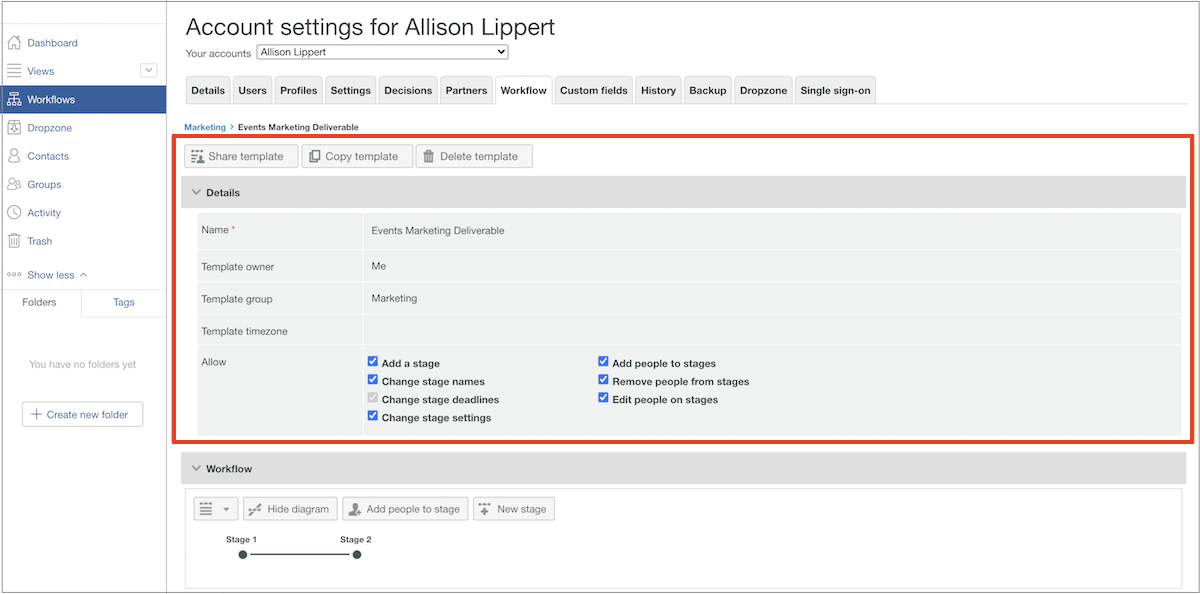
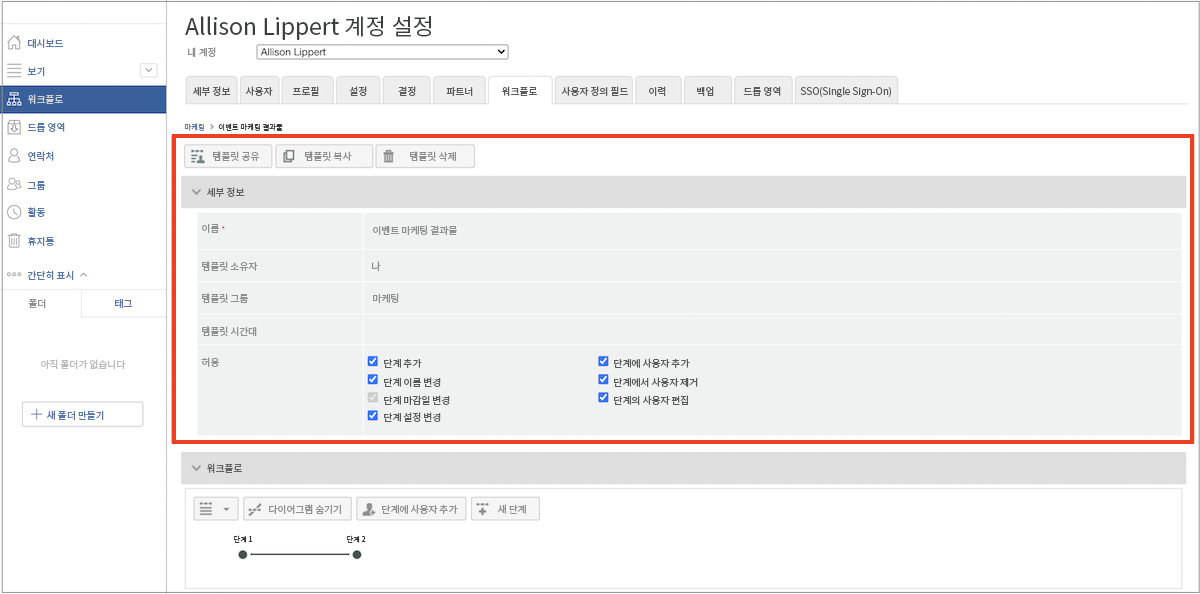
Updated by task 'AUTO_HANDOFF_1723205039258'  Changes for core/source commit https://git.corp.adobe.com/AdobeDocs/workfront-learn.en/commit/f2256fcc19d64247c79126c39acc202b4aff6f96

diff --git a/help/workfront-proof/administration-and-setup/edit-an-automated-workflow-template.md b/help/workfront-proof/administration-and-setup/edit-an-automated-workflow-template.md
@@ -13,9 +13,9 @@ jira: KT-8831
 exl-id: 03841b1f-741d-4427-ae84-ddb9f890fc95
 doc-type: video
 source-git-commit: 55edb8b797583f93f405c9c6b69422b818c90cdc
-workflow-type: tm+mt
+workflow-type: ht
 source-wordcount: '572'
-ht-degree: 61%
+ht-degree: 100%
 
 ---
 
@@ -23,18 +23,18 @@ ht-degree: 61%
 
 증명 검토 및 승인 프로세스가 개편되거나 조직이 변경되면 Workfront를 사용하는 팀의 현재 작업이 반영되도록 자동화된 워크플로 템플릿을 업데이트해야 합니다.
 
-템플릿을 최신 상태로 유지하면 검토 및 승인 프로세스의 일관성이 보장되며, 워크플로우를 지속적으로 수정하지 않아도 되므로 증명을 업로드하는 시간을 절약할 수 있습니다.
+템플릿을 최신 상태로 유지하면 검토 및 승인 프로세스의 일관성이 보장되고, 워크플로를 지속적으로 조정할 필요가 없기 때문에 증명을 업로드하는 시간이 절약됩니다.
 
 1. [!DNL Workfront]의 **[!UICONTROL 메인 메뉴]**&#x200B;에서 **[!UICONTROL 증명]**&#x200B;을 선택합니다.
 1. 왼쪽 패널 메뉴에서 **[!UICONTROL 워크플로]**&#x200B;를 선택합니다.
 1. 템플릿 이름 맨 오른쪽에 있는 점 3개 메뉴를 클릭하고 **[!UICONTROL 템플릿 세부 사항 보기]**&#x200B;를 선택합니다.
 
-템플릿 공유, 복사 및 삭제 옵션은 각 템플릿의 템플릿 세부 사항 창 상단에 있습니다. 템플릿을 삭제해도 해당 템플릿이 적용된 진행 중인 증명에는 영향을 주지 않지만 더 이상 템플릿을 사용할 수 없음을 의미합니다.
+템플릿 공유, 복사 및 삭제 옵션은 각 템플릿의 템플릿 세부 사항 창 상단에 있습니다. 템플릿을 삭제해도 해당 템플릿이 적용된 진행 중인 증명에는 영향이 미치지 않지만 해당 템플릿은 더 이상 사용할 수 없습니다.
 
 ![템플릿 세부 사항 창](assets/proof-system-setup-edit-templates-details-area.png)
 
 
-섹션을 확장하거나 축소하려면 &quot;[!UICONTROL 세부 정보]&quot; 단어의 왼쪽에 있는 화살표를 클릭하십시오.
+섹션을 확장하거나 축소하려면 “[!UICONTROL 세부 사항]” 단어 왼쪽에 있는 화살표를 클릭합니다.
 
 ## 단계 및 수신자 변경
 
@@ -42,18 +42,18 @@ ht-degree: 61%
 
 자동화된 워크플로의 각 단계에는 고유한 섹션이 있어 기한, 개인 정보 보호, 증명 수신자 및 기타 정보를 독립적으로 수정할 수 있습니다.
 
-이 비디오는 [!UICONTROL 워크플로] 영역에서 변경할 수 있는 몇 가지 변경 사항을 보여 줍니다. 이 비디오에서 이러한 설정을 검토하는 글머리 기호 목록을 참조하십시오.
+이 비디오는 [!UICONTROL 워크플로] 영역에서 적용할 수 있는 변경 사항 중 일부를 보여 줍니다. 이 비디오 아래의 글머리 기호 목록을 참조하십시오. 이러한 설정을 검토하는 내용입니다.
 
 >[!VIDEO](https://video.tv.adobe.com/v/335131/?quality=12&learn=on)
 
 다음은 검토 과정에서 [!UICONTROL 워크플로] 섹션에 적용할 수 있는 증명 템플릿 변경 사항입니다.
 
 * 단계 이름 필드 또는 기한 필드를 클릭하여 해당 정보를 업데이트합니다.
-* 최종 기한 왼쪽의 화살표를 클릭하여 단계를 잠그거나 단계가 활성화된 시기를 결정하거나 하나의 결정만 필요합니다.
+* 기한 왼쪽에 있는 화살표를 클릭하여 단계를 잠그거나, 단계가 활성화되는 시기를 결정하거나, 한 번의 결정만 요구합니다.
 * 수신자 목록에서 [!UICONTROL 역할] 또는 [!UICONTROL 이메일 경고] 필드를 클릭하여 다른 옵션을 선택합니다.
-* 수신자 이름의 오른쪽 끝에 있는 3점 메뉴로 이동하여 목록에서 삭제하거나, 워크플로 단계의 기본 의사 결정자로 지정하거나, 증명 역할 및 이메일 경고 정보를 편집합니다.
-* 수신자를 목록에 추가하는 두 가지 옵션이 있습니다.
-   1. 각 단계 섹션의 오른쪽 상단 모서리에서 [!UICONTROL 자세히] 메뉴로 이동하여 [!UICONTROL 단계에 사용자 추가]를 선택합니다. [!UICONTROL 단계에 사람 추가] 창을 연 후 추가할 단계를 클릭하세요. 그런 다음 수신자 목록에 이름이나 이메일 주소를 입력하고 증명 역할 및 이메일 경고를 할당합니다. 완료되면 [!UICONTROL 사람 추가] 단추를 클릭하세요.
+* 수신자 이름 맨 오른쪽에 있는 점 3개 메뉴로 이동하여 수신자를 목록에서 삭제하거나, 해당 워크플로 단계의 기본 의사 결정자로 지정하거나, 증명 역할 및 이메일 경고 정보를 편집합니다.
+* 수신자를 목록에 추가하는 옵션은 두 가지입니다.
+   1. 각 단계 섹션의 오른쪽 상단에서 [!UICONTROL 자세히] 메뉴로 이동하여 [!UICONTROL 단계에 사용자 추가]를 선택합니다. [!UICONTROL 단계에 사용자 추가] 창을 연 후 사용자를 추가할 단계를 클릭합니다. 그런 다음 수신자 목록에 이름이나 이메일 주소를 입력하고 증명 역할 및 이메일 경고를 할당합니다. 완료되면 [!UICONTROL 사용자 추가] 버튼을 클릭합니다.
    1. [!UICONTROL 워크플로] 영역의 상단에서 [!UICONTROL 단계에 사용자 추가]를 선택합니다.
 
 ## 템플릿 공유
